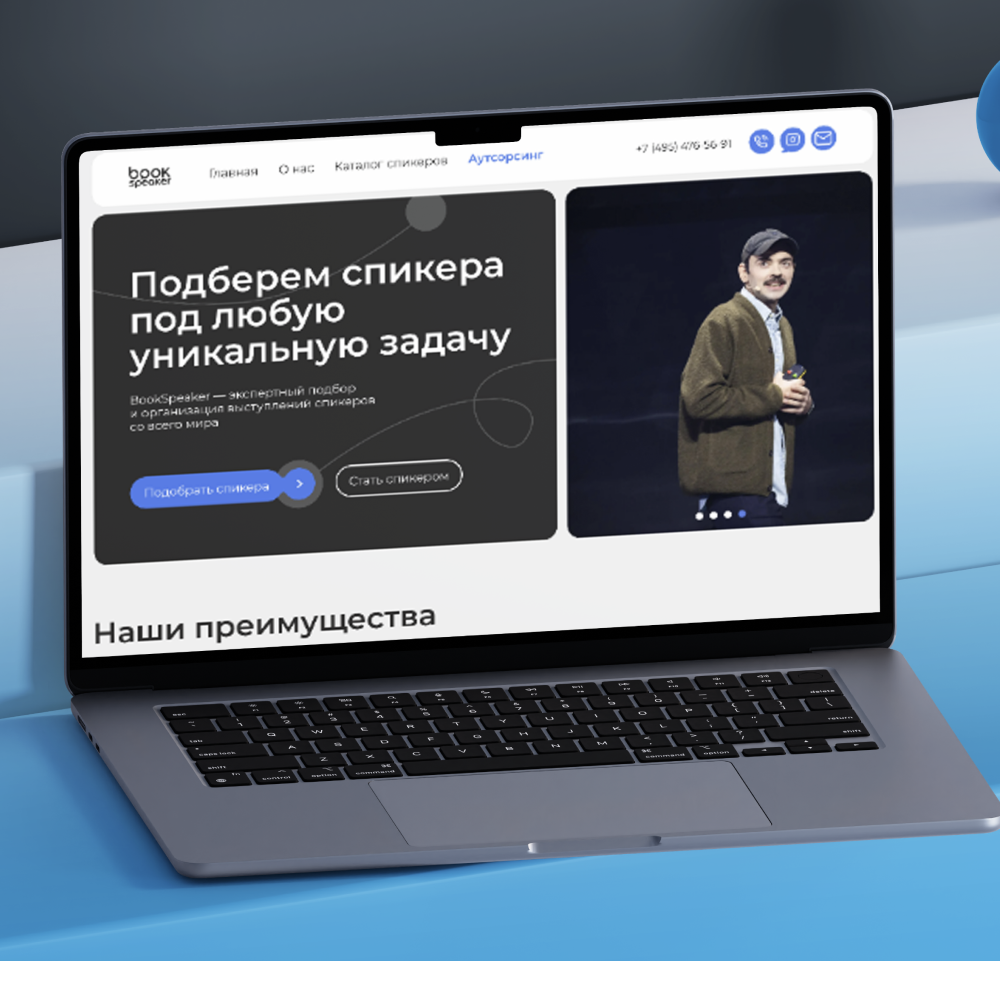
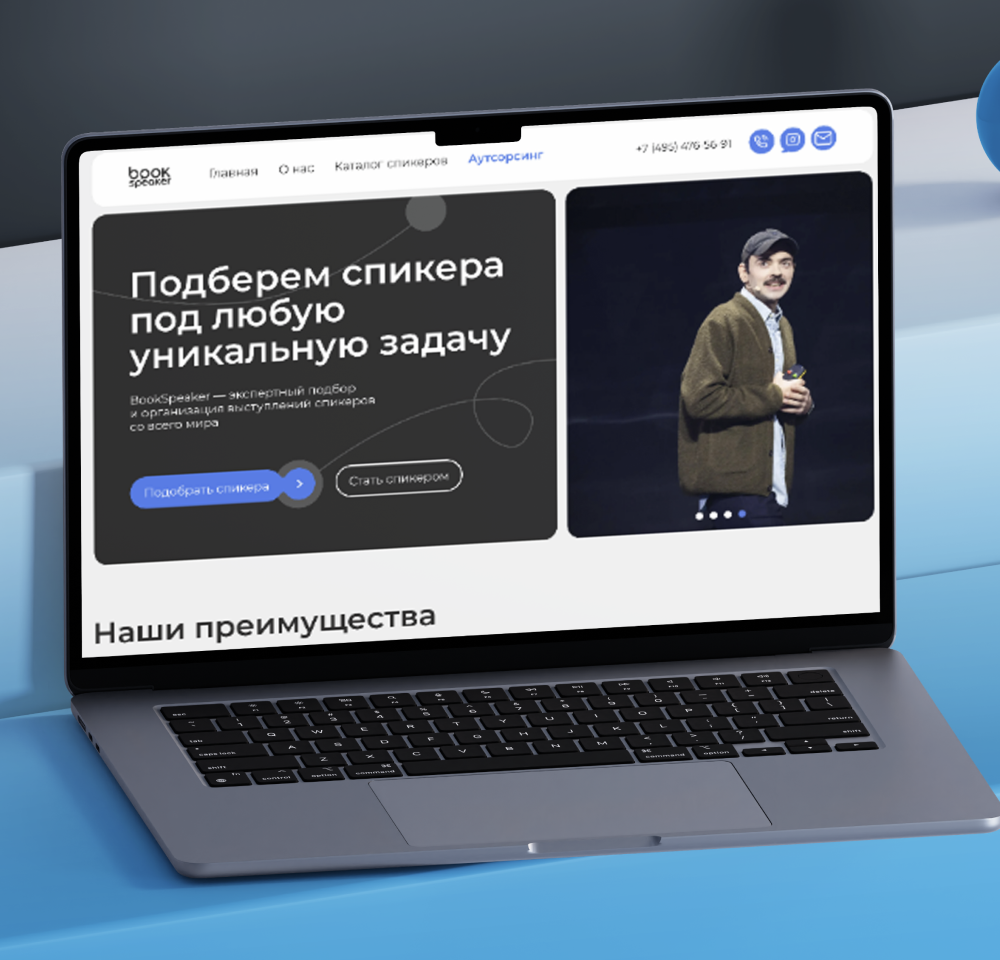
Portfolio: equal-height card rows, 1440 width like cases, clean header focus ring; trim transparent rows from a cover
Claude-Session: https://claude.ai/code/session_01CsEWEFo3SRyNF24GyHiZ1h

diff --git a/src/components/pages/Portfolio.tsx b/src/components/pages/Portfolio.tsx
@@ -14,11 +14,12 @@ import v from '../v7/V7.module.css';
 import s from './Portfolio.module.css';
 
 /** Grid rhythm 8+4 / 4+4+4 / 4+8. */
-const PATTERN: [number, string][] = [[8, '16/10'], [4, '3/4'], [4, '1/1'], [4, '1/1'], [4, '1/1'], [4, '3/4'], [8, '16/10']];
+// Column spans per row (8+4, 4+4+4, 4+8); every card in a row has the same height (grid-auto-rows), so neighbours never stretch.
+const PATTERN: [number][] = [[8], [4], [4], [4], [4], [4], [8]];
 const pad = (n: number) => String(n).padStart(2, '0');
 
 /** Case card in the v7 system: rounded media, the facts on a glass plate inside it; brand-colour tile when there is no shot. */
-function WorkCard({ p, ratio, i }: { p: Project; ratio: string; i: number }) {
+function WorkCard({ p, ratio, i }: { p: Project; ratio?: string; i: number }) {
   const move = (e: React.MouseEvent<HTMLAnchorElement>) => {
     const r = e.currentTarget.getBoundingClientRect();
     e.currentTarget.style.setProperty('--x', `${e.clientX - r.left}px`);
@@ -106,10 +107,10 @@ export function Portfolio() {
           ) : (
             <div className={s.grid}>
               {list.map((p, i) => {
-                const [span, ratio] = PATTERN[i % PATTERN.length];
+                const [span] = PATTERN[i % PATTERN.length];
                 return (
                   <div key={p.slug} className={span === 8 ? s.span8 : s.span4}>
-                    <WorkCard p={p} ratio={mobile ? '4/5' : ratio} i={i} />
+                    <WorkCard p={p} ratio={mobile ? '4/5' : undefined} i={i} />
                   </div>
                 );
               })}

diff --git a/src/components/pages/Portfolio.module.css b/src/components/pages/Portfolio.module.css
@@ -4,7 +4,7 @@
  */
 .hero {
   position: relative; display: flex; flex-direction: column; gap: 20px;
-  padding: 168px var(--margin-outer) 56px;
+  padding: 168px var(--margin-outer) 56px; max-width: calc(1440px + 2 * var(--margin-outer)); margin: 0 auto;
 }
 .h1 {
   margin: 0; display: flex; align-items: flex-start; gap: 0.08em;
@@ -24,8 +24,8 @@
 .filters::-webkit-scrollbar { display: none; }
 .views { display: flex; gap: 4px; padding-left: 16px; border-left: 1px solid rgba(14, 14, 14, 0.1); }
 
-.list { padding: 72px var(--margin-outer) var(--section-pad); }
-.grid { display: grid; grid-template-columns: repeat(12, minmax(0, 1fr)); column-gap: 16px; row-gap: 16px; }
+.list { padding: 72px var(--margin-outer) var(--section-pad); max-width: calc(1440px + 2 * var(--margin-outer)); margin: 0 auto; }
+.grid { display: grid; grid-template-columns: repeat(12, minmax(0, 1fr)); grid-auto-rows: clamp(320px, 36vw, 600px); column-gap: 16px; row-gap: 16px; }
 .span8 { grid-column: span 8; } .span4 { grid-column: span 4; }
 .empty { color: var(--text-secondary); font-size: var(--fs-body-l); }
 
@@ -91,7 +91,7 @@
   .bar { width: 100%; }
   .views { display: none; }
   .list { padding-top: 32px; }
-  .grid { grid-template-columns: 1fr; }
+  .grid { grid-template-columns: 1fr; grid-auto-rows: auto; }
   .span8, .span4 { grid-column: auto; }
   .plateTitle { font-size: 20px; }
 }

diff --git a/src/components/layout/HeaderV2.module.css b/src/components/layout/HeaderV2.module.css
@@ -44,7 +44,11 @@
 /* Text roll: the label slides up and its copy follows from below. */
 .roll { display: flex; flex-direction: column; transition: transform var(--dur-hover) var(--ease); }
 .roll > span { height: 1.3em; }
-.link:hover .roll, .link:focus-visible .roll { transform: translateY(-50%); }
+.link:hover .roll { transform: translateY(-50%); }
+/* Keyboard focus: a soft ring around the label instead of the browser box; the roll stays put so the text never doubles. */
+.link:focus { outline: none; }
+.link:focus-visible { overflow: visible; }
+.link:focus-visible::before { content: ''; position: absolute; inset: -6px -10px; border-radius: 999px; box-shadow: 0 0 0 2px var(--accent-ultra); }
 .active::after { content: ''; position: absolute; left: 0; right: 0; bottom: 0; height: 1px; background: currentColor; }
 
 .logo { display: flex; align-items: center; gap: 8px; font-size: 18px; font-weight: 500; letter-spacing: -0.03em; color: inherit; text-decoration: none; }
